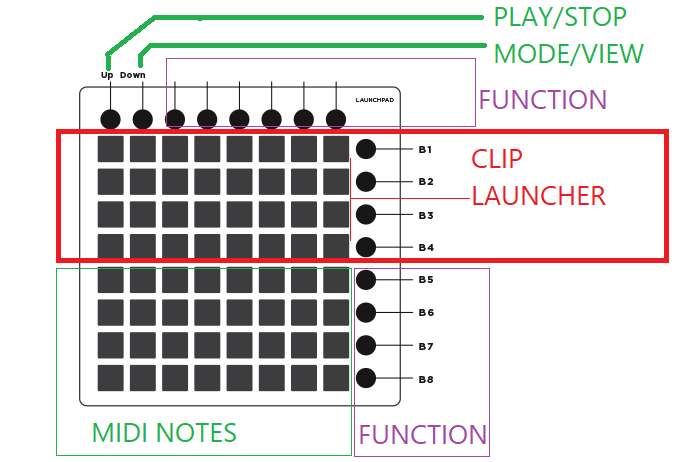
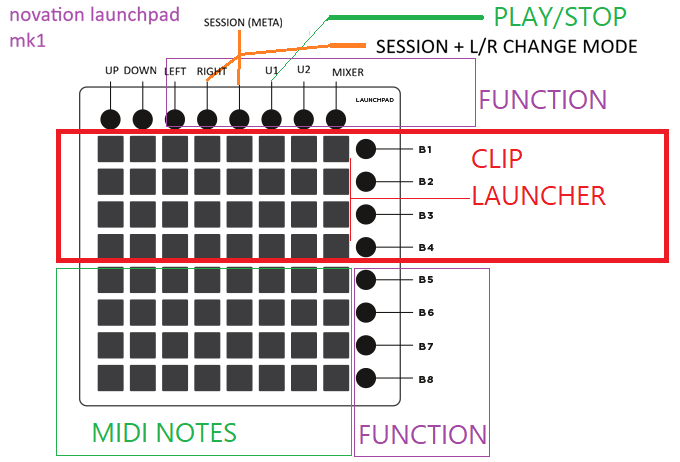
Update split-layout diagram and README caption.
Refresh LaunchpadWP.png and label the image section so the split Grid+Keys layout is clearer in the docs.

Changed region(s): [[0.0, 0.0, 0.9574, 0.1818], [0.4941, 0.1515, 0.525, 0.1818]]

diff --git a/README.md b/README.md
@@ -15,11 +15,11 @@ Layout reminder:
   ...
 ```
 
-
+# Split Layout
 
 ![split layout](LaunchpadWP.png)
 
-
+(Details below)
 ## Modifier keys (top row)
 
 
